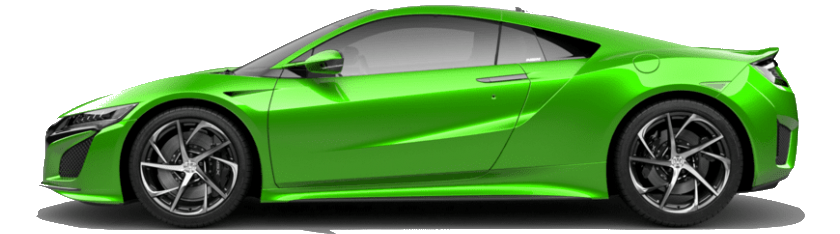
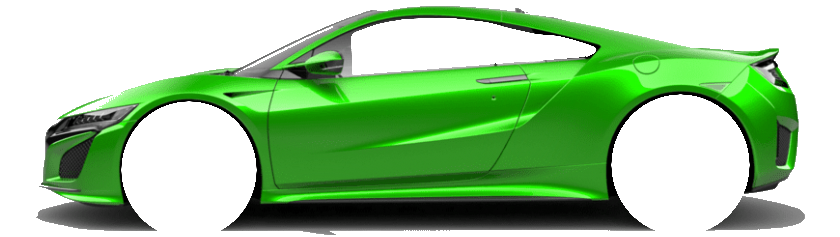
added functionality to first spinner, needs fix

diff --git a/app/src/main/java/com/example/carmaker/MainActivity.java b/app/src/main/java/com/example/carmaker/MainActivity.java
@@ -58,18 +58,19 @@ public class MainActivity extends AppCompatActivity implements AdapterView.OnIte
 
          wheelsSpinner.setOnItemSelectedListener(new AdapterView.OnItemSelectedListener() { // https://stackoverflow.com/questions/20151414/how-can-i-use-onitemselected-in-android - set drawable values here
 
-             ImageView image = (ImageView) findViewById(R.id.frame);
+             ImageView image = (ImageView) findViewById(R.id.wheels);
              public void onItemSelected(AdapterView<?> parent, View view, int position, long id) {
 
                  switch (position) {
                      case 0:
-                         Toast.makeText(parent.getContext(), "Spinner item 1!", Toast.LENGTH_SHORT).show();
+                         // Toast.makeText(parent.getContext(), "Spinner item 1!", Toast.LENGTH_SHORT).show();
+                         image.setBackgroundResource(R.drawable.hondacivicwheels1cropped);
                          break;
                      case 1:
-                         Toast.makeText(parent.getContext(), "Spinner item 2!", Toast.LENGTH_SHORT).show();
+                         image.setBackgroundResource(R.drawable.hondacivicwheels2cropped);
                          break;
                      case 2:
-                         Toast.makeText(parent.getContext(), "Spinner item 3!", Toast.LENGTH_SHORT).show();
+                         image.setBackgroundResource(R.drawable.hondacivicwheels3cropped);
                          break;
                  }
              }
